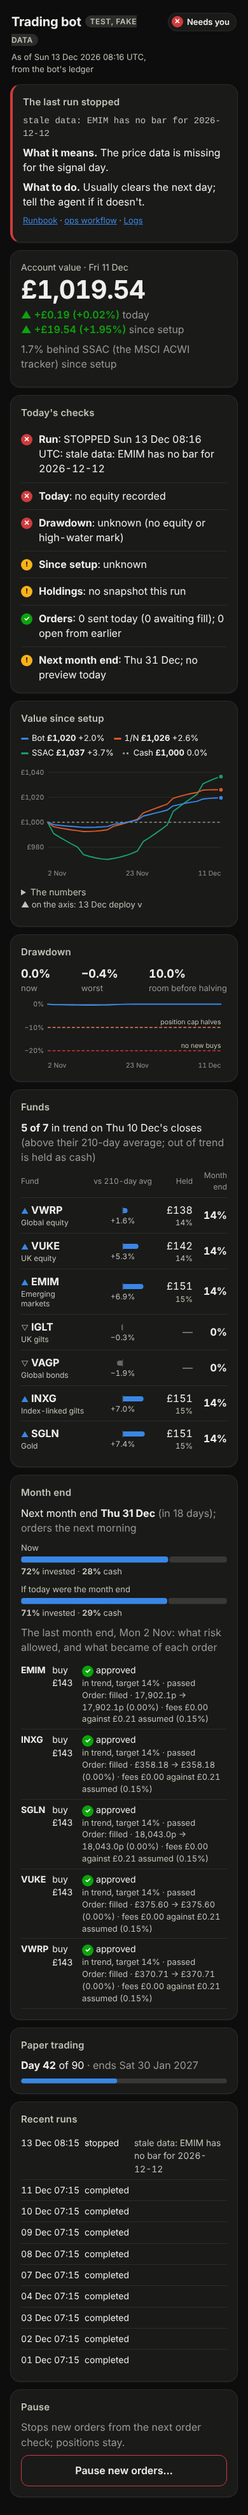
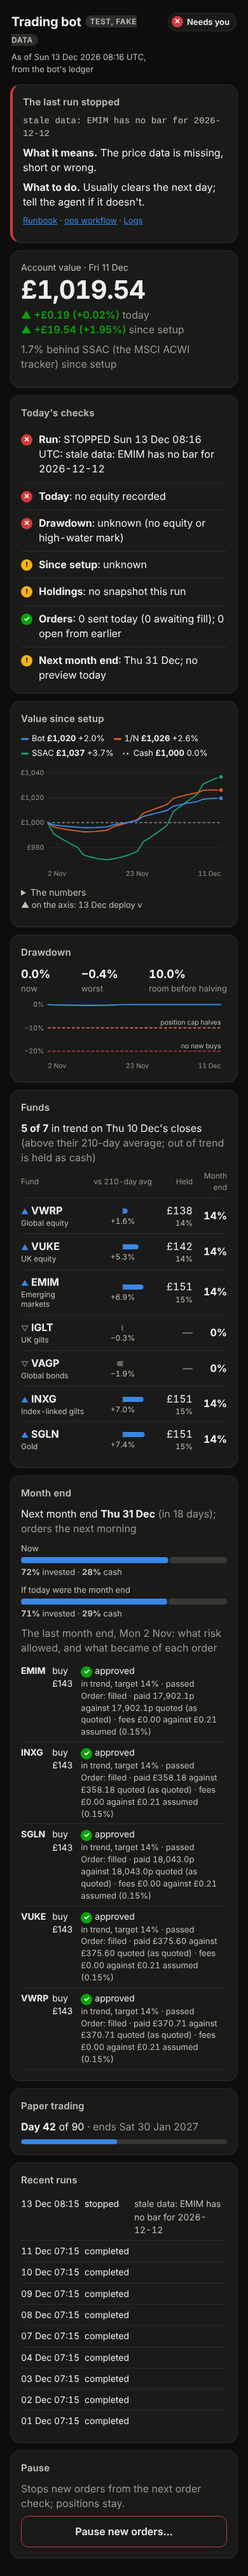
fix(dashboard): slice 3 review round 2
Unsent orders of a run still in progress say "not sent yet"; runbook
names in the guidance link to them; the line-length check stays on for
the module; screenshots retaken.

Claude-Session: https://claude.ai/code/session_01MKJF8vN6uKkYB4SdNdtoD3

diff --git a/src/tradingbot/report/incident.py b/src/tradingbot/report/incident.py
@@ -1,4 +1,3 @@
-# ruff: noqa: E501 - GUIDANCE holds the runbook's table rows word for word
 """The incident view (dashboard slice 3): what a stopped or died run means and what to do.
 
 Pure. The guidance is `docs/runbooks/cycle-alerts.md`'s "Stop reasons" table, word for word, and
@@ -8,6 +7,7 @@ Links only: nothing is loaded from those sites (the CSP forbids it).
 
 from __future__ import annotations
 
+import re
 from dataclasses import dataclass
 from html import escape
 
@@ -29,16 +29,16 @@ GUIDANCE = (
     Guidance(
         ("new orders off (kill switch or pause request)",),
         "new-orders is off, a pause request exists, or the pause location can't be read",
-        "Nothing, unless you want trading back: ops → clear-pause after a pause, ops → restore new-orders after the kill switch (kill-switch.md). If neither applies, tell the agent",
+        "Nothing, unless you want trading back: ops → clear-pause after a pause, ops → restore new-orders after the kill switch (kill-switch.md). If neither applies, tell the agent",  # noqa: E501 - the runbook's words
     ),
     Guidance(
         ("not reconciled",),
-        "An earlier order's outcome is unknown or still working, or the broker has a working order the bot doesn't know (including one you placed by hand)",
+        "An earlier order's outcome is unknown or still working, or the broker has a working order the bot doesn't know (including one you placed by hand)",  # noqa: E501 - the runbook's words
         "Wait for it to finish; if it persists, check the order in the Trading 212 app and tell the agent",
     ),
     Guidance(
         ("order ended short",),
-        "An order the broker accepted was rejected or cancelled before filling. That month end's decision is not retried until the next one",
+        "An order the broker accepted was rejected or cancelled before filling. That month end's decision is not retried until the next one",  # noqa: E501 - the runbook's words
         "Check the order in the app; tell the agent if it repeats",
     ),
     Guidance(
@@ -53,7 +53,7 @@ GUIDANCE = (
     ),
     Guidance(
         ("month end skipped",),
-        "The first run after the month end couldn't check the month-end prices (blocked, or prices moved more than 2%), so this month's rebalance is skipped, exits included, until the next month end",
+        "The first run after the month end couldn't check the month-end prices (blocked, or prices moved more than 2%), so this month's rebalance is skipped, exits included, until the next month end",  # noqa: E501 - the runbook's words
         "Decide whether to act by hand (closing positions is yours) or wait. One alert per month end",
     ),
     Guidance(
@@ -88,6 +88,13 @@ def guidance(reason: str | None, *, died: bool = False) -> Guidance:
     return next((g for g in GUIDANCE if any(k.lower() in text for k in g.keys)), UNKNOWN)
 
 
+def _link_runbooks(text: str) -> str:
+    """Runbook names in the guidance ("kill-switch.md") become links to them on GitHub."""
+    return re.sub(
+        r"\b([a-z0-9-]+\.md)\b", lambda m: f'<a href="{REPO}/blob/main/docs/runbooks/{m[1]}">{m[1]}</a>', text
+    )
+
+
 def logs_url(environment: str) -> str:
     query = f'resource.type="cloud_run_job"\nresource.labels.job_name="trading-bot-{environment}"'
     return "https://console.cloud.google.com/logs/query;query=" + _percent(query)
@@ -110,6 +117,6 @@ def incident_card(environment: str, outcome: str, reason: str | None) -> str:
         f"{'did not finish' if outcome == 'died' else 'stopped'}</h2>"
         f"<p class=reason>{escape(reason or 'no reason recorded')}</p>"
         f"<p><b>What it means.</b> {escape(g.meaning)}.</p>"
-        f"<p><b>What to do.</b> {escape(g.action)}.</p>"
+        f"<p><b>What to do.</b> {_link_runbooks(escape(g.action))}.</p>"
         f"<p class=small>{links}</p></section>"
     )

diff --git a/src/tradingbot/app/weekly_facts.py b/src/tradingbot/app/weekly_facts.py
@@ -141,9 +141,11 @@ class _OrderFacts(NamedTuple):
     traded: Decimal | None = None
 
 
-def _order_facts(ledger: Ledger, intent: Intent | None, approved: bool) -> _OrderFacts:
-    if intent is None:  # approved but never recorded: the run stopped before sending it
-        return _OrderFacts("not sent" if approved else None)
+def _order_facts(ledger: Ledger, intent: Intent | None, approved: bool, finished: bool) -> _OrderFacts:
+    if intent is None:  # approved but never recorded: the run stopped before it, or is still sending
+        return _OrderFacts(
+            ("not sent" if finished else "not sent yet (run in progress)") if approved else None
+        )
     fill = ledger.fill(intent.intent_id)
     price = fill.average_price
     traded = (
@@ -172,7 +174,10 @@ def _decisions(ledger: Ledger, runs: list[RunRecord]) -> tuple[date | None, list
             rows = []
             for d in records:
                 facts = _order_facts(
-                    ledger, intents.get((d.instrument, d.side)), approved=bool(d.approved_quantity)
+                    ledger,
+                    intents.get((d.instrument, d.side)),
+                    approved=bool(d.approved_quantity),
+                    finished=run.outcome is not None,
                 )
                 price = d.quote.to_gbp().amount if d.quote else None
                 approved = (

diff --git a/tests/report/test_incident.py b/tests/report/test_incident.py
@@ -71,3 +71,17 @@ def test_the_logs_query_is_url_encoded() -> None:
     assert logs_url("prod").endswith(
         "query=resource.type%3D%22cloud_run_job%22%0Aresource.labels.job_name%3D%22trading-bot-prod%22"
     )
+
+
+def test_runbook_names_in_the_guidance_are_links() -> None:
+    html = incident_card("prod", "stopped", "new orders off (kill switch or pause request)")
+    assert (
+        '<a href="https://github.com/johnniepmw/trading-bot/blob/main/docs/runbooks/kill-switch.md">kill-switch.md</a>'
+        in html
+    )
+
+
+def test_every_runbook_the_guidance_names_exists() -> None:
+    names = {m for g in (*GUIDANCE, DIED) for m in re.findall(r"[a-z0-9-]+\.md", g.action)}
+    assert names
+    assert all((RUNBOOK.parent / name).is_file() for name in names)

diff --git a/tests/app/test_weekly_facts.py b/tests/app/test_weekly_facts.py
@@ -348,3 +348,14 @@ def test_an_order_whose_sending_wasnt_confirmed_never_reads_as_unsent(ledger: Le
     w = facts(ledger)
     assert w is not None
     assert w.decisions[0].order == "sending not confirmed (the next run checks the broker)"
+
+
+def test_while_the_run_is_still_sending_unsent_orders_say_not_yet(ledger: Ledger) -> None:
+    ledger.start_run("sending", at(DAY1), "v")
+    ledger.record_equity(DAY1, gbp("1000"))
+    ledger.record_decisions(
+        "sending", [DecisionRecord(A, Side.BUY, Decimal("2"), Decimal("2"), "ok", gbp("100"))]
+    )
+    w = facts(ledger)
+    assert w is not None
+    assert w.decisions[0].order == "not sent yet (run in progress)"
